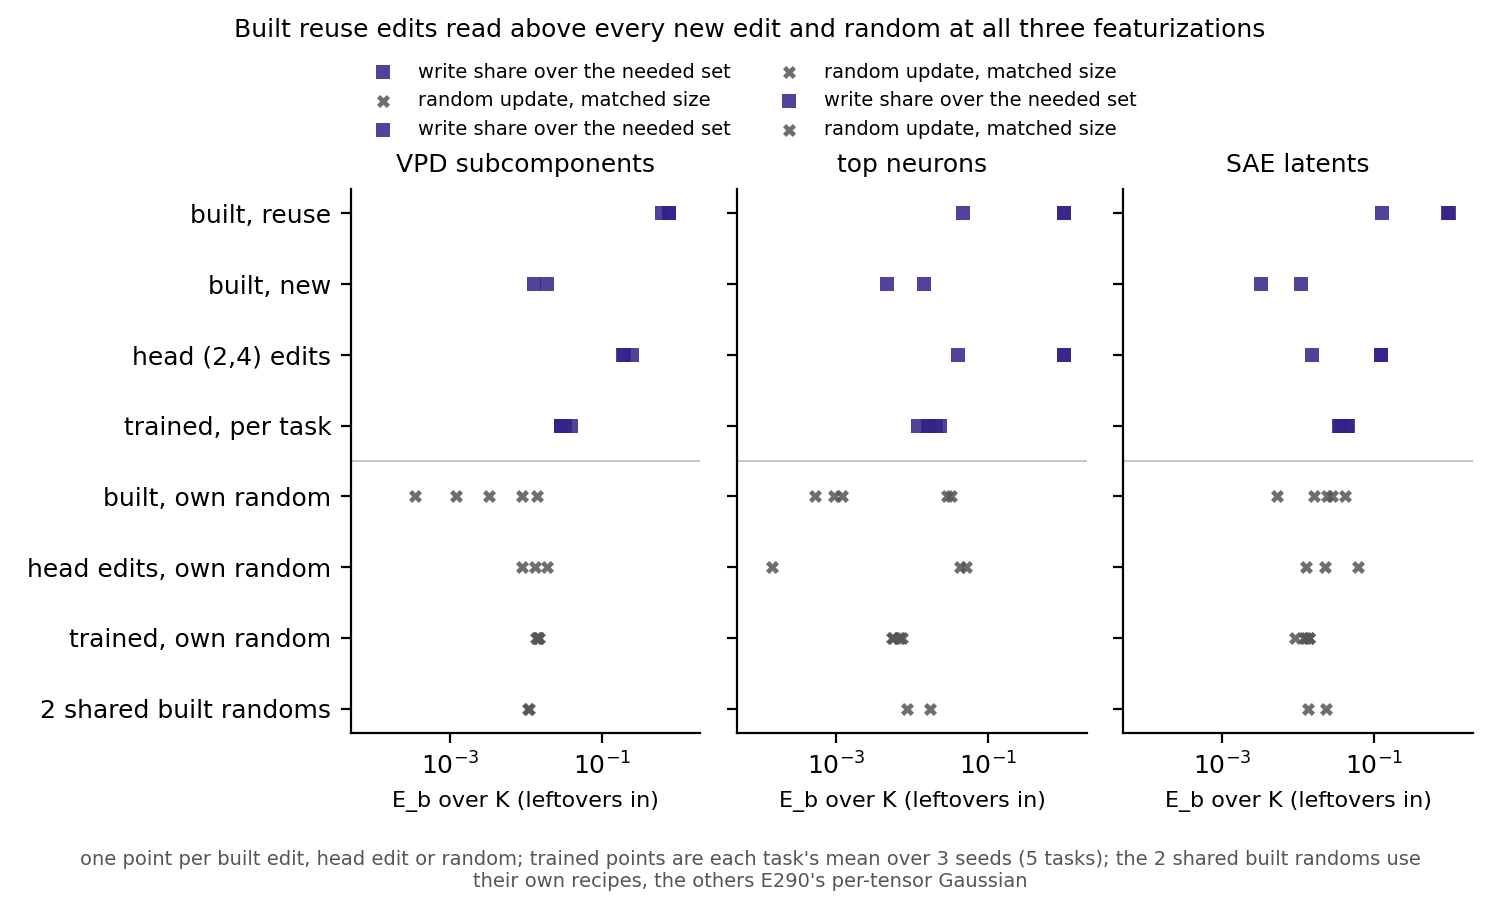
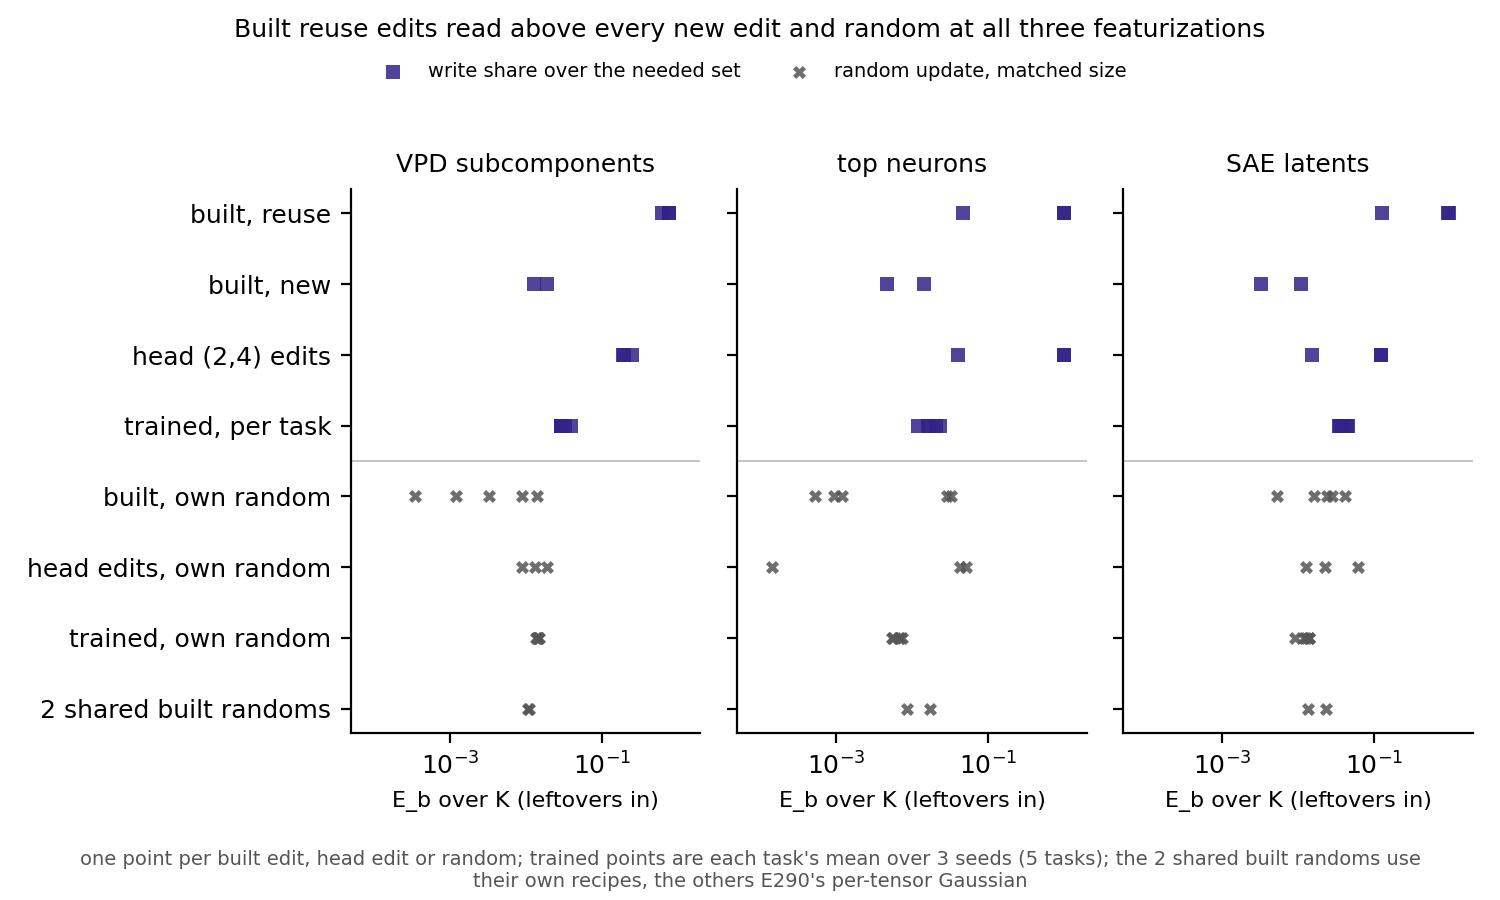
E298 (P1.62): page moved-rows table and head-edit notes, DRAFT line removed; one legend in fig2_standard

Changed region(s): [[0.5213, 0.0622, 0.7667, 0.1556], [0.2453, 0.0622, 0.4907, 0.1556]]

diff --git a/experiments/fig2_standard/plot.py b/experiments/fig2_standard/plot.py
@@ -64,7 +64,7 @@ def main() -> None:
             vals = group_values(summary["per_task"], feat, block, side, items)
             style = FG.METHODS["random" if is_random else "eb"]
             ax.scatter(vals, [i] * len(vals), color=style.color, marker=style.marker, s=22, alpha=0.85, linewidths=0,
-                       label=style.label if i in (0, 4) else None)  # fmt: skip
+                       label=style.label if feat == "VPD" and i in (0, 4) else None)  # fmt: skip
             data += [{"feat": feat, "group": label, "value": v} for v in vals]
         ax.axhline(3.5, color="#bbbbbb", linewidth=0.6)
         ax.set_xscale("log")

diff --git a/reports/analyses/2026-11-24_analysis_p1-62-fig2-standard.md b/reports/analyses/2026-11-24_analysis_p1-62-fig2-standard.md
@@ -1,5 +1,3 @@
-DRAFT, unfinished: left to do are check.py on this page, the numbers ledger (this page's .numbers.tsv and `fleet/numbers check`), a final pass on the figure legend, and the full table of 144 rows.
-
 # Does Figure 2 change when all three featurizations read the same states the same way?
 
 We read the write share of the needed set at VPD subcomponents, top neurons and SAE latents on the same 48 states, with one needed-set rule, one set of input pairs and the leftover variables counted. No per-task value moved by more than a hundredth from the old figure, and the old order holds at every featurization: edits built to reuse read far above edits built to be new and above every random update. The old figure's mixed protocol therefore did not drive its picture, and Figure 2 can be redrawn from these rows.
@@ -30,11 +28,46 @@ At VPD the smallest reuse value is 0.623 against a largest new or random value o
 - At the copy task's answer position the base model's top token is right on 0 of 301 cases, so the built site is not a behaviour the base model performs there (`experiments/built_circuits/results/planning/measure.json`).
 - Seven of the eight neuron items ran under the predictions file before the SAE tolerance was filed, `9486e64a` against `c204a7a6`; nothing for VPD or neurons differs between them.
 - The SAE identity control first showed 1 flip with a largest logit deviation of 0.248, because the JumpReLU threshold flipped on rounding between the cache and the rerun. After commit `60062eff` the input's own side is taken from the cache: 0 flips, deviation 2.16e-4, against 5.15e-5 at VPD and neurons.
-- The value and output edits of head (2,4) read the same at neurons and at SAE; not checked why.
+- The value and output edits of head (2,4) read the same at neurons and at SAE, to every digit. This is expected: doubling a head's value weights or its output weights doubles the same head output, so the two edits give the same model function and every reading of activations sees one edit. Only VPD, which reads the weights themselves, tells them apart.
+- The head edits read about a fifth at VPD although each is a pure rescale of one head. E280 found that VPD's subcomponents mix heads, so a one-head rescale cannot sit inside the parts the base model uses. The query edit reads below its matched random at neurons and at SAE: doubling the query sharpens the attention pattern rather than scaling a write, so at these sites it is not a rescale of an existing path.
 
 ## Moved rows (old, new)
 
-TODO: table from `experiments/fig2_standard/results/moved_rows.json`.
+Every old row that moved by more than a thousandth (`experiments/fig2_standard/results/moved_rows.json`, rounded to four places). All are SAE rows, whose old column was read over K* on scaled states.
+
+| Featurization | Block | Item | Side | Old | New | Move |
+|---|---|---|---|---|---|---|
+| SAE | built | x2 | reuse | 0.9689 | 0.9659 | -0.0031 |
+| SAE | built | x10 | reuse | 0.9473 | 0.9433 | -0.004 |
+| SAE | built | rebuilt | reuse | 0.1349 | 0.1275 | -0.0074 |
+| SAE | built | new_thin | new | 0.0127 | 0.0109 | -0.0018 |
+| SAE | built | random_size_241001 | random | 0.008 | 0.0136 | 0.0056 |
+| SAE | built | random_kl_241002 | random | 0.0198 | 0.023 | 0.0033 |
+| SAE | trained | copy_s0 | trained | 0.0473 | 0.0451 | -0.0022 |
+| SAE | trained | copy_s0 | random | 0.0118 | 0.0103 | -0.0015 |
+| SAE | trained | copy_s2 | trained | 0.0552 | 0.0421 | -0.0131 |
+| SAE | trained | copy_s2 | random | 0.0112 | 0.0146 | 0.0034 |
+| SAE | trained | elicit_s0 | trained | 0.0336 | 0.0358 | 0.0022 |
+| SAE | trained | elicit_s0 | random | 0.0116 | 0.0147 | 0.0031 |
+| SAE | trained | elicit_s1 | trained | 0.0352 | 0.0374 | 0.0022 |
+| SAE | trained | elicit_s1 | random | 0.0148 | 0.0119 | -0.0029 |
+| SAE | trained | elicit_s2 | trained | 0.0292 | 0.0307 | 0.0015 |
+| SAE | trained | rank1_s0 | random | 0.0093 | 0.0081 | -0.0012 |
+| SAE | trained | rank1_s1 | trained | 0.04 | 0.0353 | -0.0046 |
+| SAE | trained | rank1_s1 | random | 0.0097 | 0.0084 | -0.0012 |
+| SAE | trained | rank1_s2 | trained | 0.0365 | 0.0325 | -0.004 |
+| SAE | trained | prior_cipher_s0 | trained | 0.0395 | 0.0456 | 0.0061 |
+| SAE | trained | prior_cipher_s0 | random | 0.0156 | 0.0115 | -0.0041 |
+| SAE | trained | prior_cipher_s1 | trained | 0.0424 | 0.0471 | 0.0047 |
+| SAE | trained | prior_cipher_s1 | random | 0.0097 | 0.0167 | 0.007 |
+| SAE | trained | prior_cipher_s2 | trained | 0.0396 | 0.0435 | 0.0039 |
+| SAE | trained | prior_cipher_s2 | random | 0.0096 | 0.0136 | 0.004 |
+| SAE | trained | cipher_s0 | trained | 0.0379 | 0.0358 | -0.0021 |
+| SAE | trained | cipher_s0 | random | 0.0093 | 0.0165 | 0.0072 |
+| SAE | trained | cipher_s1 | trained | 0.0374 | 0.0398 | 0.0024 |
+| SAE | trained | cipher_s1 | random | 0.0096 | 0.0106 | 0.0011 |
+| SAE | trained | cipher_s2 | trained | 0.0363 | 0.0379 | 0.0016 |
+| SAE | trained | cipher_s2 | random | 0.011 | 0.014 | 0.003 |
 
 ## Not run
 
